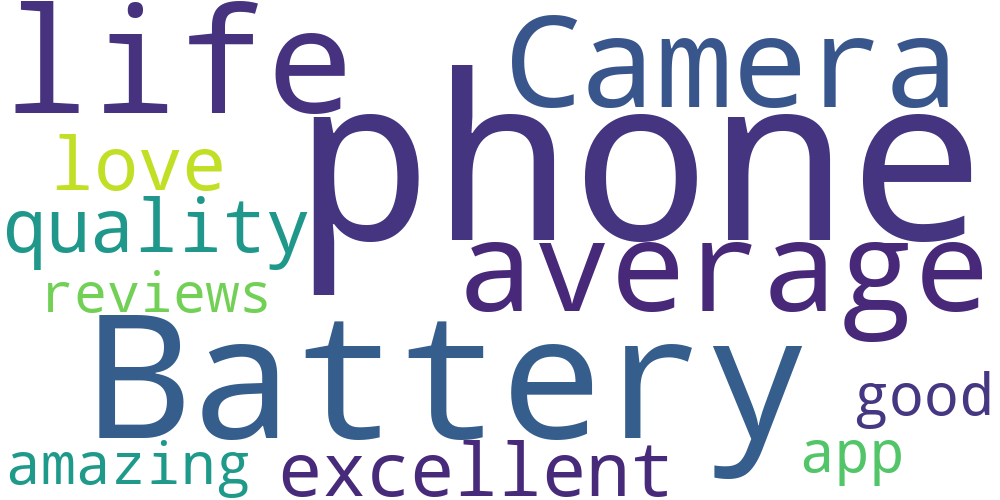
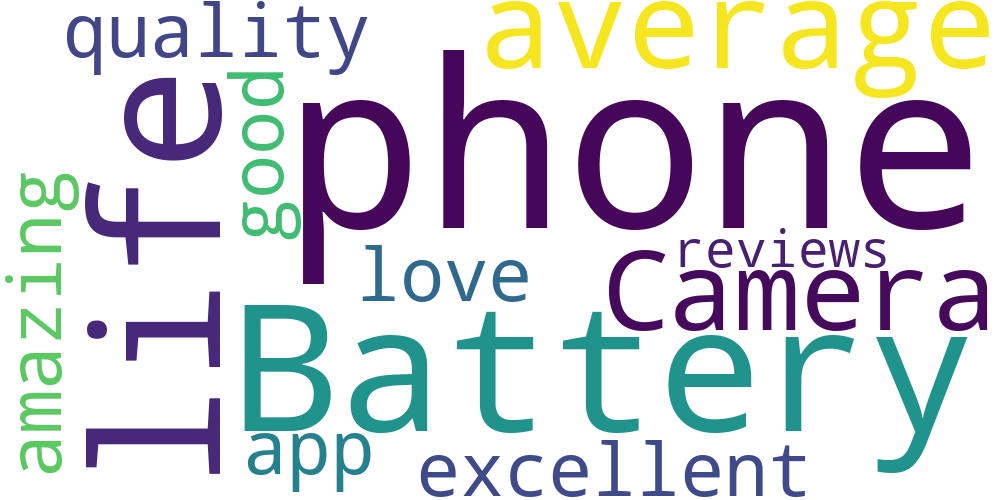
bug fix

diff --git a/templates/dashboard.html b/templates/dashboard.html
@@ -392,30 +392,6 @@
     </div>
 
 </div>
-<!-- Confidence Distribution -->
-<div class="card shadow mt-4">
-
-    <div class="card-header dashboard-card-header dashboard-card-header-blue">
-        <h4 class="mb-0">📊 Confidence Distribution</h4>
-    </div>
-
-    <div class="card-body">
-
-        {% if confidence_chart %}
-
-            {{ confidence_chart | safe }}
-
-        {% else %}
-
-            <p class="text-muted">
-                No confidence data available.
-            </p>
-
-        {% endif %}
-
-    </div>
-
-</div>
     <!-- Recent Reviews -->
     <div class="card shadow mt-4">
 

diff --git a/app.py b/app.py
@@ -333,6 +333,8 @@ def dashboard():
         positive_percent=positive_percent,
         negative_percent=negative_percent,
         neutral_percent=neutral_percent,
+        top_positive=top_positive,
+        top_negative=top_negative,
         average_confidence=average_confidence,
         confidence_chart=confidence_chart,
     )
